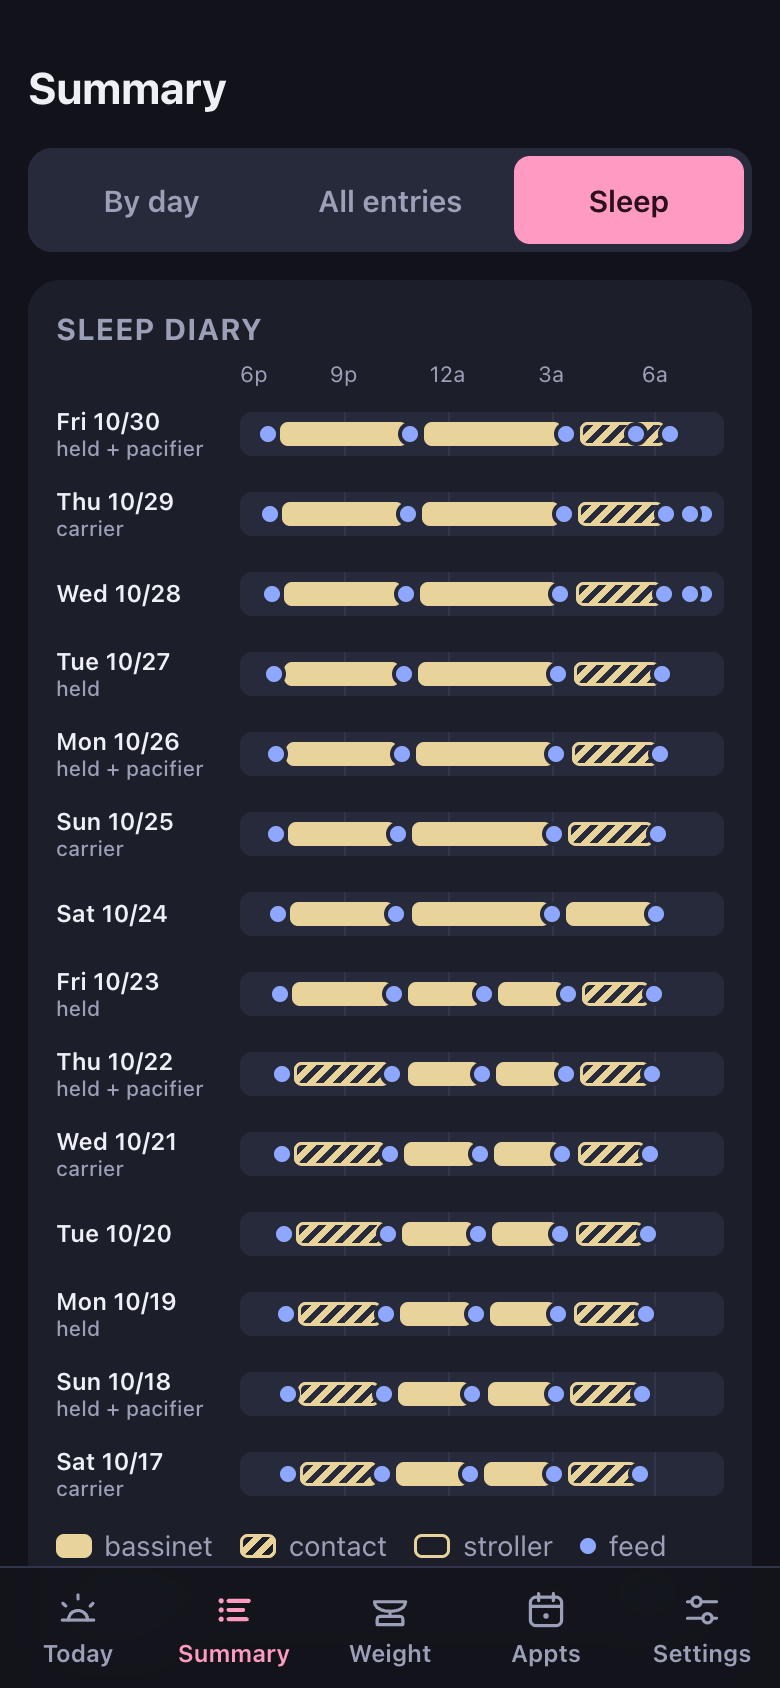
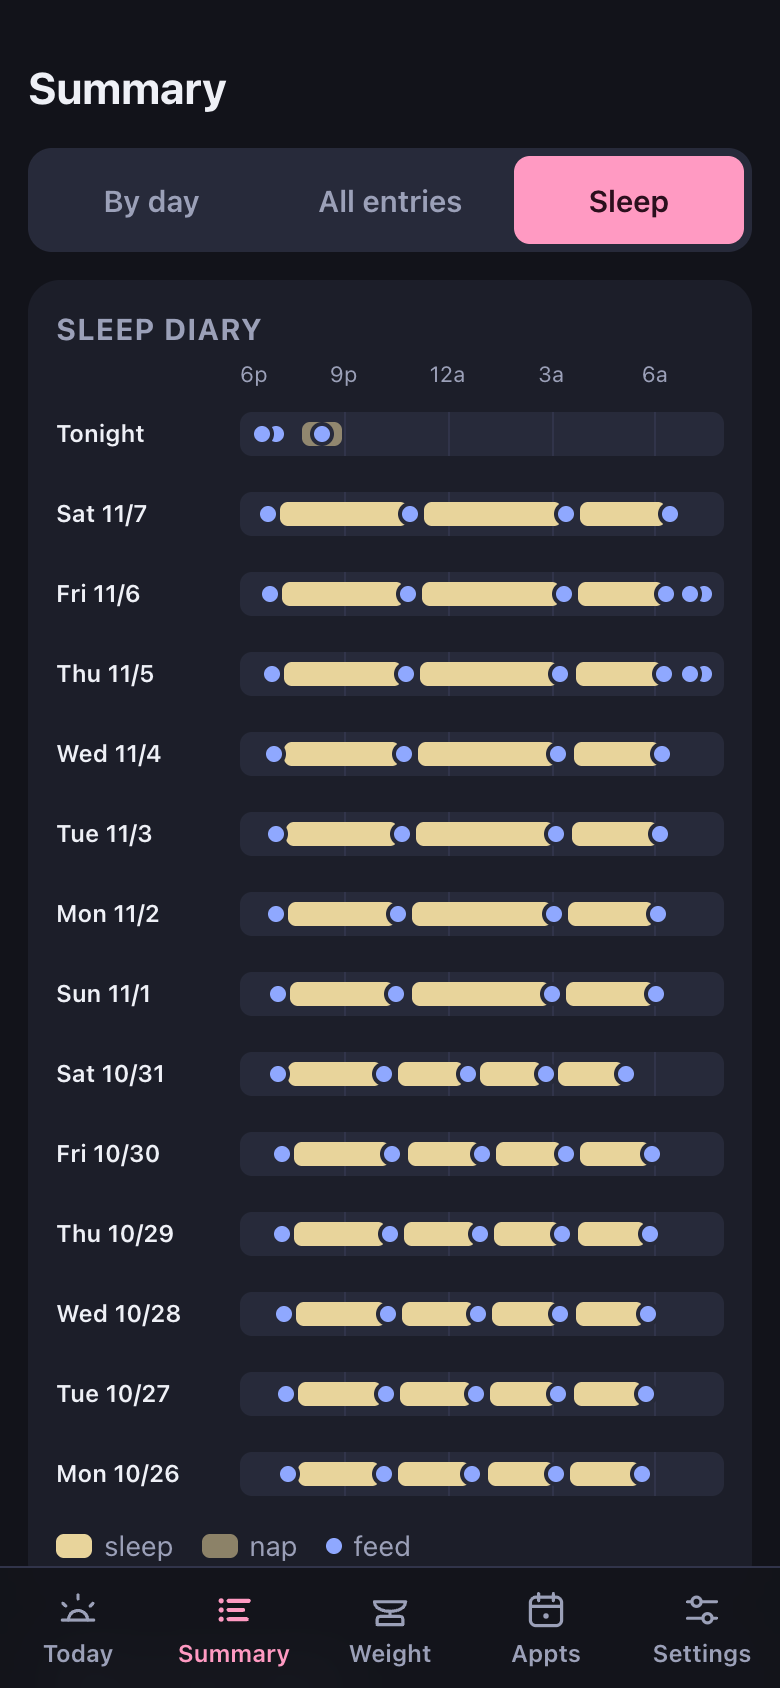
Diary: plain bars, no where/help labels

diff --git a/src/components/SleepDiary.tsx b/src/components/SleepDiary.tsx
@@ -3,9 +3,8 @@ import { useNow } from '../hooks';
 import { isActive } from '../lib/summary';
 import { dayOf, fmtDur, fromLocal } from '../lib/time';
 import {
-  DEFAULT_NIGHT_SLEEP, sleepMsOnDay, placeSegments, currentNight, lastCompletedNight, nightsBack, nightKey, sleepsOf, weekSummary, fmtEveningMinutes, loggedNights,
+  DEFAULT_NIGHT_SLEEP, sleepMsOnDay, currentNight, lastCompletedNight, nightsBack, nightKey, sleepsOf, weekSummary, fmtEveningMinutes, loggedNights,
 } from '../lib/sleep';
-import { SLEEP_HOW_LABEL } from '../types';
 
 const SPAN_START_H = 18, SPAN_H = 14; // each row runs 6 PM to 8 AM
 const TICKS = [{ h: 0, label: '6p' }, { h: 3, label: '9p' }, { h: 6, label: '12a' }, { h: 9, label: '3a' }, { h: 12, label: '6a' }];
@@ -59,20 +58,20 @@ export function SleepDiary() {
           const inRow = sleeps.filter((s) => s.at < span[1] && (s.end_at ?? now) > span[0]);
           const dots = feeds.filter((f) => f.at >= span[0] && f.at <= span[1] && f.at <= now);
           const first = sleeps.find((s) => s.night && nightKey(s.at) === key);
-          const how = first?.how?.map((h) => SLEEP_HOW_LABEL[h] ?? h).join(' + ');
+          void first;
           return (
             <div key={key} className="diary-row">
               <div className="diary-label">
                 <span>{key === tonight ? 'Tonight' : rowLabel(key)}</span>
-                {how && <span className="muted">{how}</span>}
+                
               </div>
               <div className="diary-track">
                 {TICKS.slice(1).map((t) => <i key={t.label} className="diary-grid" style={{ left: `${(t.h / SPAN_H) * 100}%` }} />)}
-                {inRow.flatMap((s) => placeSegments(s, now).map(([from, to, place], i) => {
-                  if (to < span[0] || from > span[1]) return null;
+                {inRow.map((s, i) => {
+                  const from = s.at, to = s.end_at ?? now;
                   const a = pct(Math.max(from, span[0]), span), b = pct(Math.min(to, span[1]), span);
-                  return <b key={`${s.id}-${i}`} className={`diary-bar${place ? ` p-${place}` : ''}${s.night ? '' : ' nap'}${s.end_at == null ? ' open' : ''}`} style={{ left: `${a}%`, width: `${Math.max(0.8, b - a)}%` }} />;
-                }))}
+                  return <b key={`${s.id}-${i}`} className={`diary-bar${s.night ? '' : ' nap'}${s.end_at == null ? ' open' : ''}`} style={{ left: `${a}%`, width: `${Math.max(0.8, b - a)}%` }} />;
+                })}
                 {dots.map((f) => <em key={f.id} className="diary-dot" style={{ left: `${pct(f.at, span)}%` }} />)}
               </div>
             </div>
